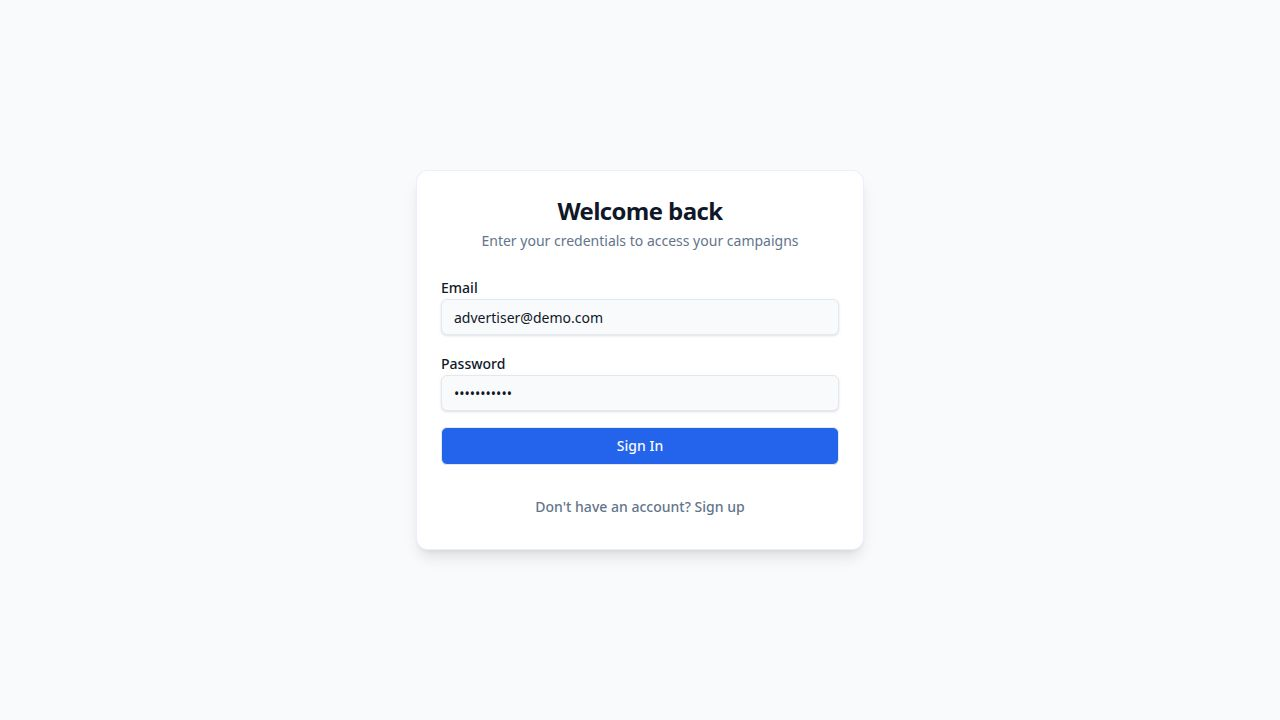
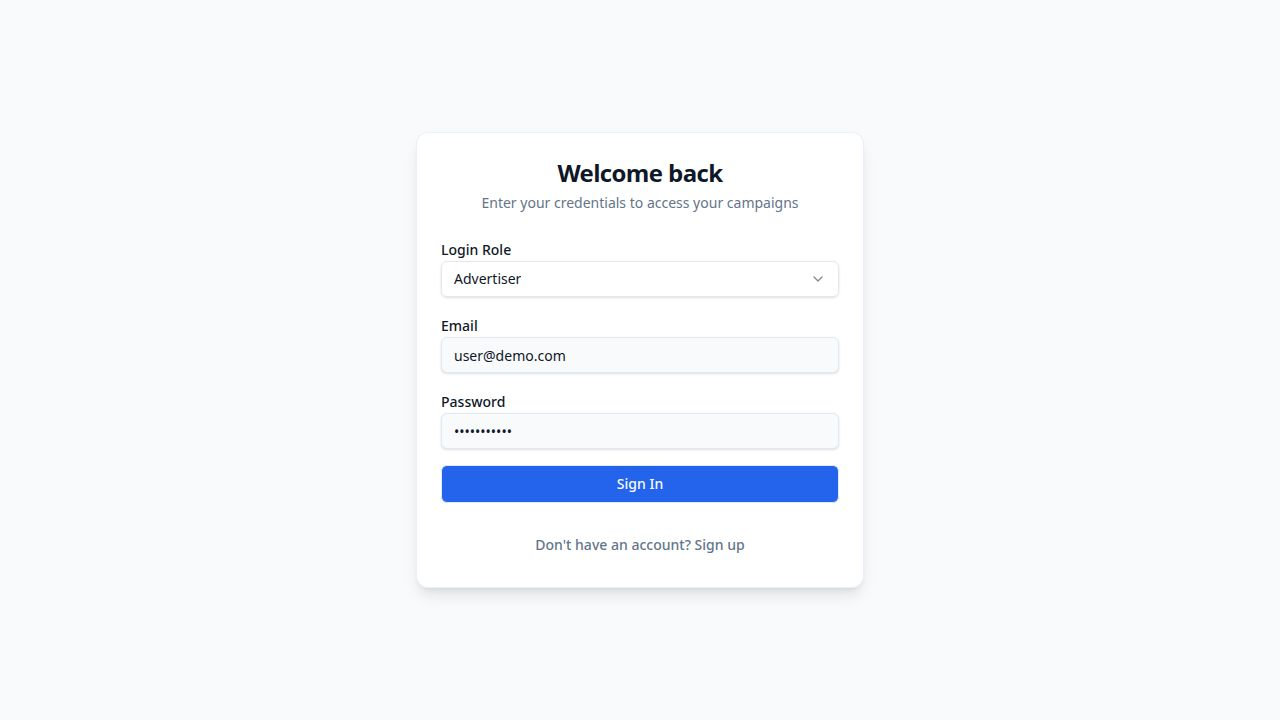
Add role-based access and navigation for different user types
Integrates role selection on the login page, dynamically updates sidebar navigation based on user role, and modifies routing upon authentication to direct users to role-specific dashboards. Updates Zustand store for role management and UI components for role display.

Replit-Commit-Author: Agent
Replit-Commit-Session-Id: 48cd0e71-5670-49bf-bc53-5a89ce7449be
Replit-Commit-Checkpoint-Type: full_checkpoint
Replit-Commit-Event-Id: b3f401f7-4f4a-4ff0-ad84-9fdff5f2048c
Replit-Commit-Screenshot-Url: https://storage.googleapis.com/screenshot-production-us-central1/779dccf2-2774-4df8-aa9f-d8ffec354899/48cd0e71-5670-49bf-bc53-5a89ce7449be/XN2y8yM
Replit-Helium-Checkpoint-Created: true

Changed region(s): [[0.3438, 0.4889, 0.6562, 0.7944], [0.3438, 0.2139, 0.625, 0.4583]]

diff --git a/client/src/pages/auth.tsx b/client/src/pages/auth.tsx
@@ -3,13 +3,17 @@ import { Link, useLocation } from "wouter";
 import { Button } from "@/components/ui/button";
 import { Input } from "@/components/ui/input";
 import { Label } from "@/components/ui/label";
+import { Select, SelectContent, SelectItem, SelectTrigger, SelectValue } from "@/components/ui/select";
 import { Card, CardContent, CardDescription, CardFooter, CardHeader, CardTitle } from "@/components/ui/card";
 import { Loader2 } from "lucide-react";
+import { useCampaignStore } from "@/lib/store";
 
 export default function AuthPage() {
   const [isLogin, setIsLogin] = useState(true);
   const [isLoading, setIsLoading] = useState(false);
   const [, setLocation] = useLocation();
+  const setCurrentUserRole = useCampaignStore(state => state.setCurrentUserRole);
+  const currentUserRole = useCampaignStore(state => state.currentUserRole);
 
   const handleAuth = async (e: React.FormEvent) => {
     e.preventDefault();
@@ -17,7 +21,10 @@ export default function AuthPage() {
     // Simulate auth delay
     setTimeout(() => {
       setIsLoading(false);
-      setLocation("/dashboard");
+      if (currentUserRole === "Advertiser") setLocation("/dashboard");
+      else if (currentUserRole === "Print Vendor") setLocation("/vendor");
+      else if (currentUserRole === "Delivery Partner") setLocation("/dashboard");
+      else if (currentUserRole === "Admin") setLocation("/admin");
     }, 1000);
   };
 
@@ -37,6 +44,20 @@ export default function AuthPage() {
         <CardContent>
           <form onSubmit={handleAuth} className="space-y-4">
             <div className="space-y-2">
+              <Label htmlFor="role">Login Role</Label>
+              <Select value={currentUserRole} onValueChange={(val: any) => setCurrentUserRole(val)}>
+                <SelectTrigger>
+                  <SelectValue placeholder="Select role" />
+                </SelectTrigger>
+                <SelectContent>
+                  <SelectItem value="Advertiser">Advertiser Login</SelectItem>
+                  <SelectItem value="Print Vendor">Print Vendor Login</SelectItem>
+                  <SelectItem value="Delivery Partner">Delivery Partner Login</SelectItem>
+                  <SelectItem value="Admin">Admin Login</SelectItem>
+                </SelectContent>
+              </Select>
+            </div>
+            <div className="space-y-2">
               <Label htmlFor="email">Email</Label>
               <Input
                 id="email"
@@ -44,7 +65,13 @@ export default function AuthPage() {
                 placeholder="m@example.com"
                 required
                 className="bg-background"
-                defaultValue="advertiser@demo.com"
+                value={
+                  currentUserRole === "Advertiser" ? "advertiser@demo.com" :
+                  currentUserRole === "Print Vendor" ? "vendor@demo.com" :
+                  currentUserRole === "Delivery Partner" ? "partner@demo.com" :
+                  "admin@demo.com"
+                }
+                onChange={() => {}}
               />
             </div>
             <div className="space-y-2">

diff --git a/client/src/components/layout.tsx b/client/src/components/layout.tsx
@@ -1,17 +1,21 @@
 import { Link, useLocation } from "wouter";
 import { cn } from "@/lib/utils";
 import { LayoutDashboard, PlusCircle, Settings, LogOut, Shield, Printer, Wallet } from "lucide-react";
+import { useCampaignStore } from "@/lib/store";
 
 export function Sidebar() {
   const [location] = useLocation();
+  const currentUserRole = useCampaignStore(state => state.currentUserRole);
 
-  const links = [
-    { href: "/dashboard", label: "Dashboard", icon: LayoutDashboard },
-    { href: "/campaigns/new", label: "New Campaign", icon: PlusCircle },
-    { href: "/admin", label: "Admin View", icon: Shield },
-    { href: "/vendor", label: "Vendor Queue", icon: Printer },
-    { href: "/partner", label: "Partner Earnings", icon: Wallet },
+  const allLinks = [
+    { href: "/dashboard", label: "Dashboard", icon: LayoutDashboard, roles: ["Advertiser", "Delivery Partner", "Admin"] },
+    { href: "/campaigns/new", label: "New Campaign", icon: PlusCircle, roles: ["Advertiser", "Admin"] },
+    { href: "/admin", label: "Admin View", icon: Shield, roles: ["Admin"] },
+    { href: "/vendor", label: "Vendor Queue", icon: Printer, roles: ["Print Vendor", "Admin"] },
+    { href: "/partner", label: "Partner Earnings", icon: Wallet, roles: ["Delivery Partner", "Admin"] },
   ];
+
+  const links = allLinks.filter(link => link.roles.includes(currentUserRole));
 
   return (
     <div className="flex h-screen w-64 flex-col border-r bg-sidebar text-sidebar-foreground">
@@ -49,11 +53,16 @@ export function Sidebar() {
       <div className="border-t p-4">
         <div className="flex items-center gap-3 mb-4 px-2">
           <div className="h-8 w-8 rounded-full bg-primary/20 flex items-center justify-center text-primary text-xs font-bold">
-            AD
+            {currentUserRole.substring(0, 2).toUpperCase()}
           </div>
           <div className="flex flex-col">
-            <span className="text-sm font-medium">Advertiser</span>
-            <span className="text-xs text-muted-foreground">demo@ad.com</span>
+            <span className="text-sm font-medium">{currentUserRole}</span>
+            <span className="text-xs text-muted-foreground">
+              {currentUserRole === "Advertiser" ? "advertiser@demo.com" :
+               currentUserRole === "Print Vendor" ? "vendor@demo.com" :
+               currentUserRole === "Delivery Partner" ? "partner@demo.com" :
+               "admin@demo.com"}
+            </span>
           </div>
         </div>
         <Link href="/login">

diff --git a/client/src/lib/store.ts b/client/src/lib/store.ts
@@ -17,9 +17,11 @@ export interface Campaign {
 
 interface CampaignState {
   campaigns: Campaign[];
+  currentUserRole: "Advertiser" | "Print Vendor" | "Delivery Partner" | "Admin";
   addCampaign: (campaign: Campaign) => void;
   updateCampaignStatus: (id: string, status: Campaign["status"]) => void;
   getCampaign: (id: string) => Campaign | undefined;
+  setCurrentUserRole: (role: "Advertiser" | "Print Vendor" | "Delivery Partner" | "Admin") => void;
 }
 
 export const useCampaignStore = create<CampaignState>()(
@@ -50,6 +52,7 @@ export const useCampaignStore = create<CampaignState>()(
           createdAt: "2024-02-20T14:30:00Z",
         }
       ],
+      currentUserRole: "Advertiser",
       addCampaign: (campaign) =>
         set((state) => ({ campaigns: [...state.campaigns, campaign] })),
       updateCampaignStatus: (id, status) =>
@@ -59,6 +62,7 @@ export const useCampaignStore = create<CampaignState>()(
           ),
         })),
       getCampaign: (id) => get().campaigns.find((c) => c.id === id),
+      setCurrentUserRole: (role) => set({ currentUserRole: role }),
     }),
     {
       name: "campaign-storage",
